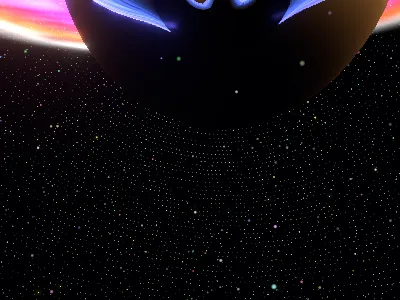
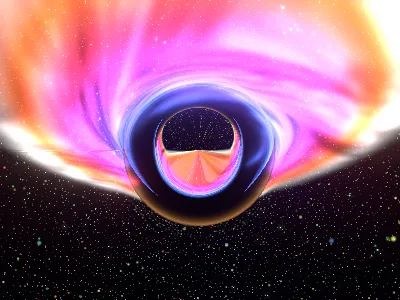
Adds blackhole assets

diff --git a/src/components/BlackHoleVisualization.tsx b/src/components/BlackHoleVisualization.tsx
@@ -31,7 +31,7 @@ export default function BlackHoleVisualization({
       }}
     >
       <Canvas
-        camera={{ position: [0.5, 5.0, 6.5], fov: 60, near: 0.1, far: 1000 }}
+        camera={{ position: [0, 0, 30], fov: 75, near: 0.1, far: 1000 }}
         dpr={1}
       >
         <BlackHoleScene
@@ -47,11 +47,12 @@ export default function BlackHoleVisualization({
           enableDamping
           dampingFactor={0.035}
           rotateSpeed={0.4}
-          autoRotate={false}
-          autoRotateSpeed={0.1}
-          minDistance={2.5}
-          maxDistance={100}
+          autoRotate
+          autoRotateSpeed={0.3}
+          minDistance={10}
+          maxDistance={150}
           enablePan={false}
+          target={[0, 0, -80]}
         />
       </Canvas>
     </div>

diff --git a/src/hooks/useFullscreen.ts b/src/hooks/useFullscreen.ts
@@ -33,3 +33,4 @@ export function useFullscreen() {
 
 
 
+

diff --git a/src/components/ds/Toggle.tsx b/src/components/ds/Toggle.tsx
@@ -46,3 +46,4 @@ export default function Toggle({
 
 
 
+
